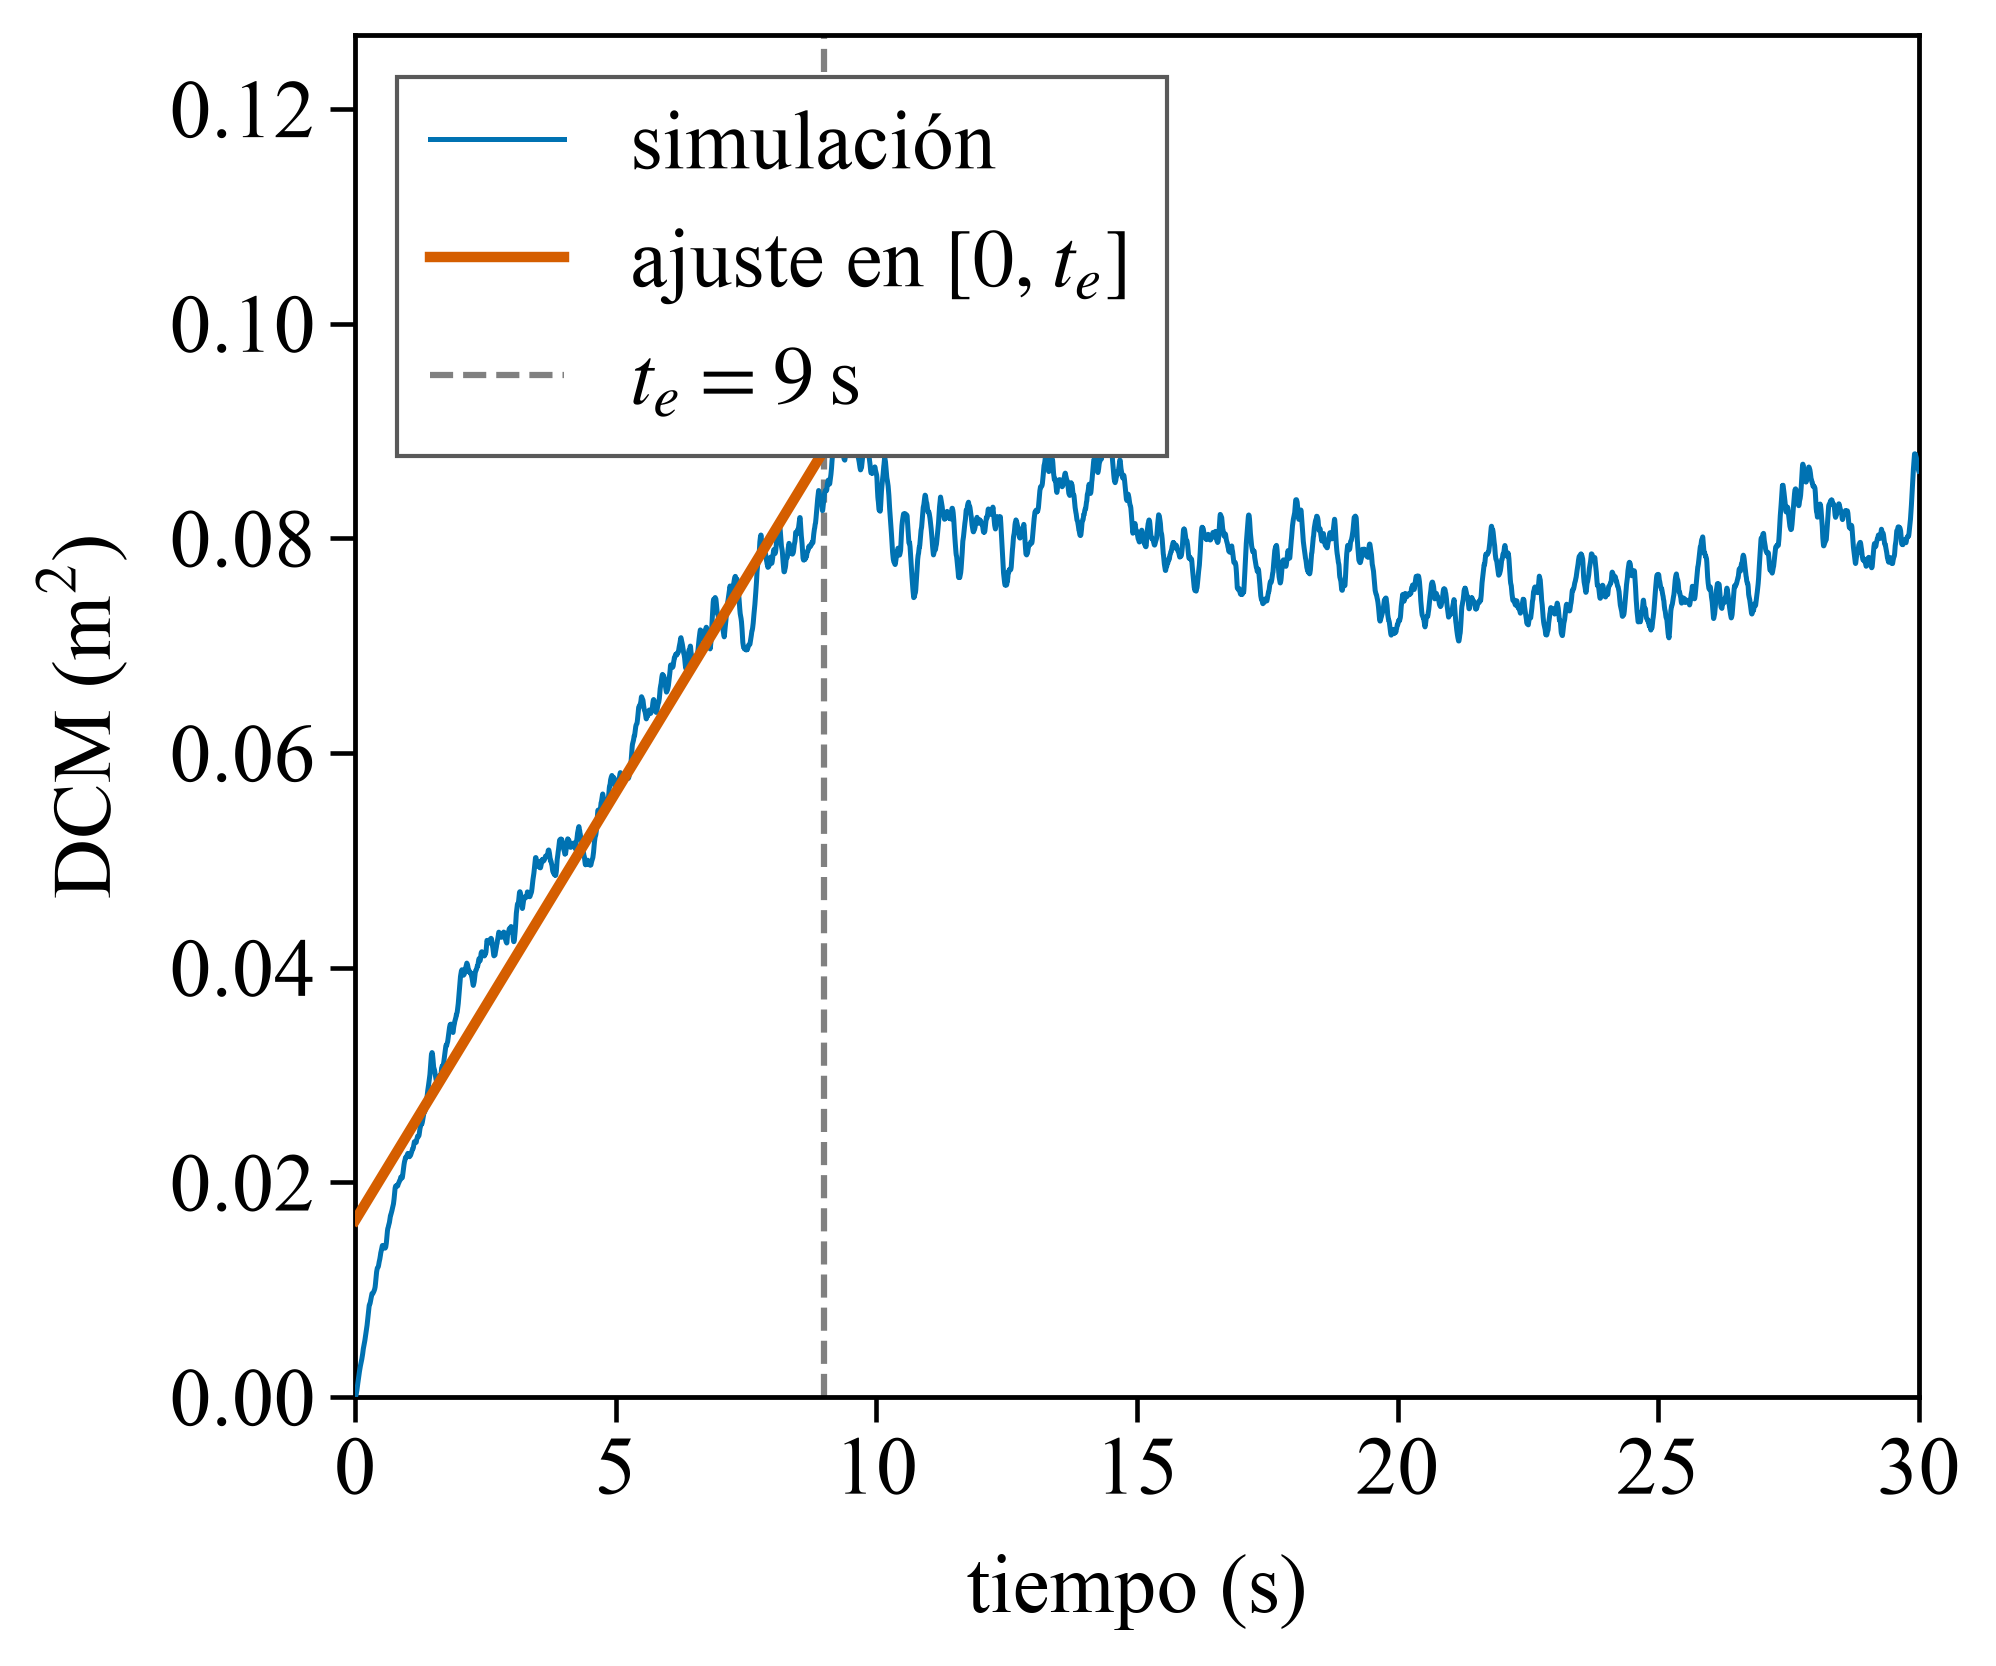
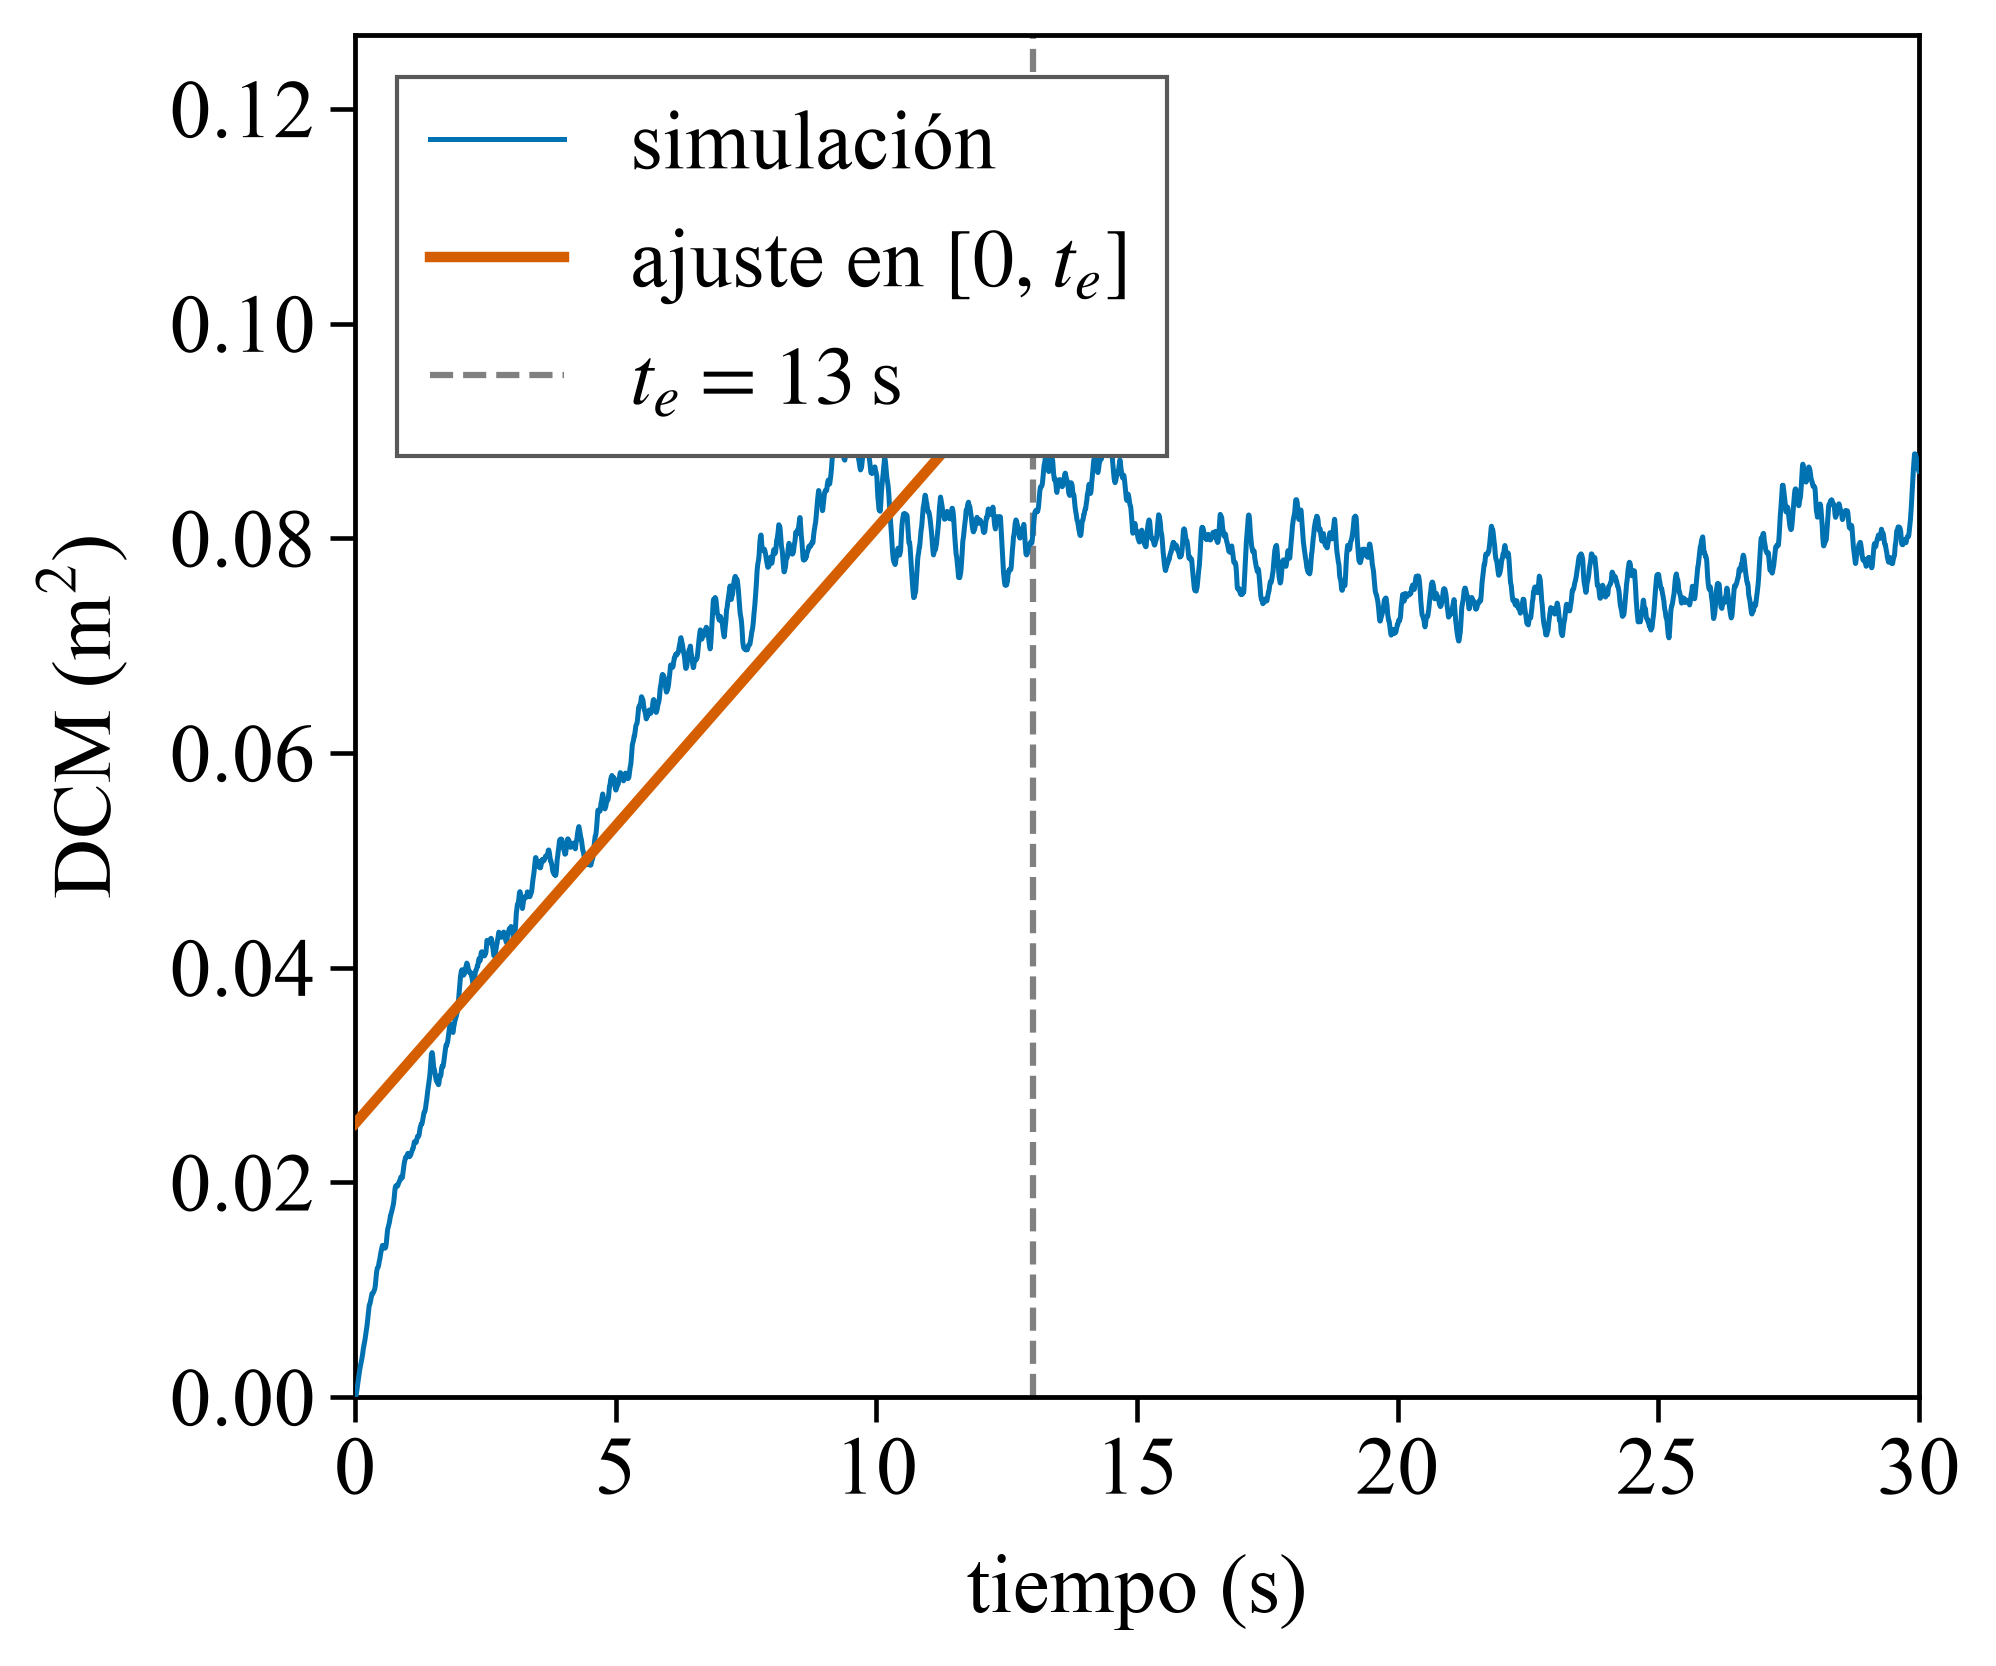
update dcm values

diff --git a/docs/presentation/dcm_valores.tex b/docs/presentation/dcm_valores.tex
@@ -11,11 +11,11 @@
 \newcommand{\DcmDparedA}{0.0030 \pm 0.0005}
 \newcommand{\DcmCorteparedA}{4}
 \newcommand{\DcmRangoparedA}{0.0030\text{--}0.0035}
-\newcommand{\DcmDparedB}{0.0019 \pm 0.0003}
-\newcommand{\DcmCorteparedB}{9}
-\newcommand{\DcmRangoparedB}{0.0016\text{--}0.0023}
-\newcommand{\DcmDparedC}{0.0014 \pm 0.0003}
-\newcommand{\DcmCorteparedC}{8}
-\newcommand{\DcmRangoparedC}{0.0015\text{--}0.0017}
+\newcommand{\DcmDparedB}{0.0013 \pm 0.0002}
+\newcommand{\DcmCorteparedB}{13}
+\newcommand{\DcmRangoparedB}{0.0010\text{--}0.0020}
+\newcommand{\DcmDparedC}{0.00077 \pm 0.00010}
+\newcommand{\DcmCorteparedC}{20}
+\newcommand{\DcmRangoparedC}{0.00063\text{--}0.00108}
 \newcommand{\DcmDejemplo}{0.0098}
 \newcommand{\DcmMesetavacia}{0.284 \pm 0.015}

diff --git a/docs/presentation/dcm_tabla.tex b/docs/presentation/dcm_tabla.tex
@@ -7,7 +7,7 @@
   disco, $R = 0.22\,\mathrm{m}$ & 19\,\% & $0.0032 \pm 0.0007$ & $20 \pm 3$ \\
   pared, 9 columnas & 38\,\% & $0.0030 \pm 0.0005$ & $14.2 \pm 1.4$ \\
   disco, $R = 0.34\,\mathrm{m}$ & 45\,\% & $0.0020 \pm 0.0002$ & $17.0 \pm 2.0$ \\
-  pared, 18 columnas & 40\,\% & $0.0019 \pm 0.0003$ & $13.7 \pm 1.3$ \\
-  pared, 23 columnas & 52\,\% & $0.0014 \pm 0.0003$ & $17.0 \pm 1.7$ \\
+  pared, 18 columnas & 40\,\% & $0.0013 \pm 0.0002$ & $13.7 \pm 1.3$ \\
+  pared, 23 columnas & 52\,\% & $0.00077 \pm 0.00010$ & $17.0 \pm 1.7$ \\
   \hline
 \end{tabular}
